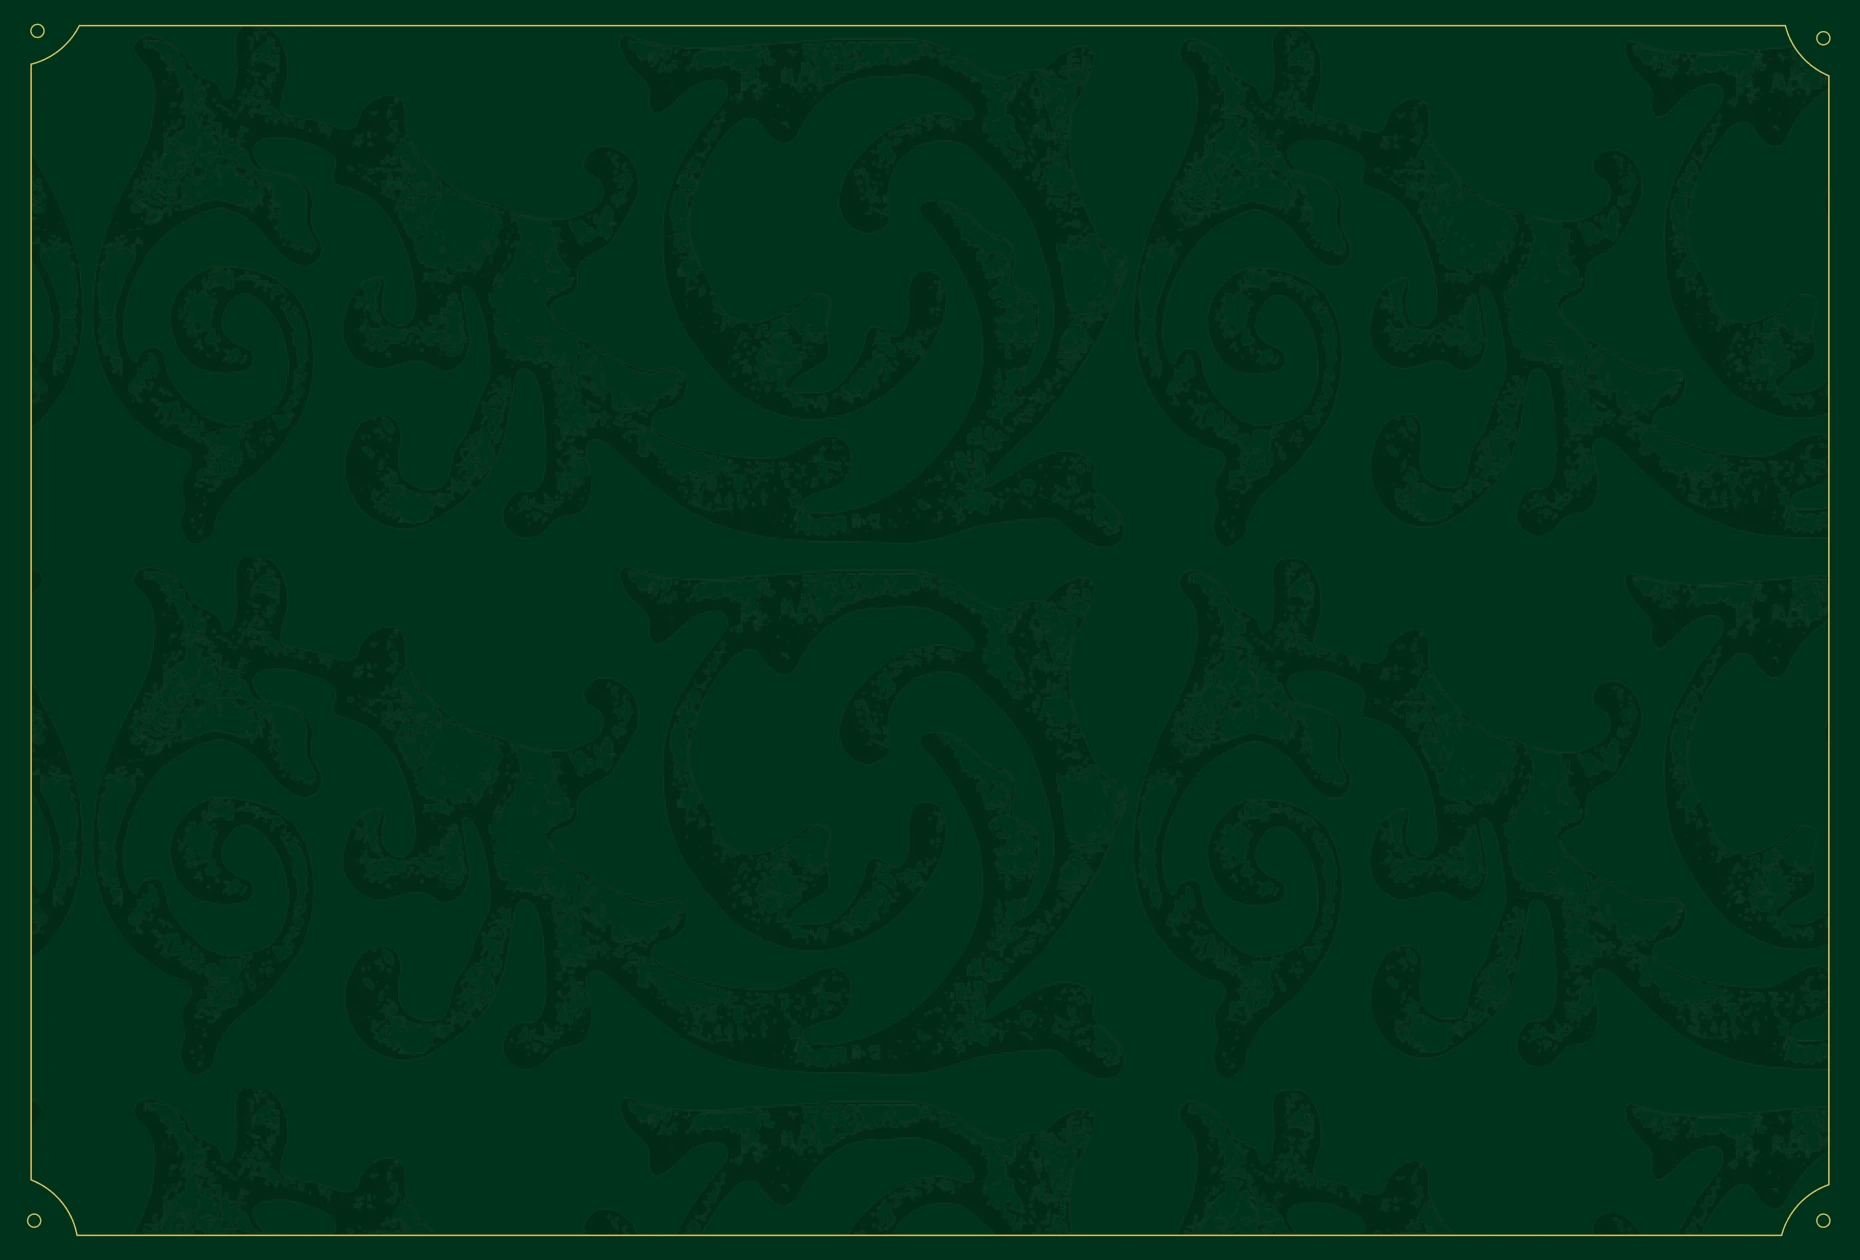
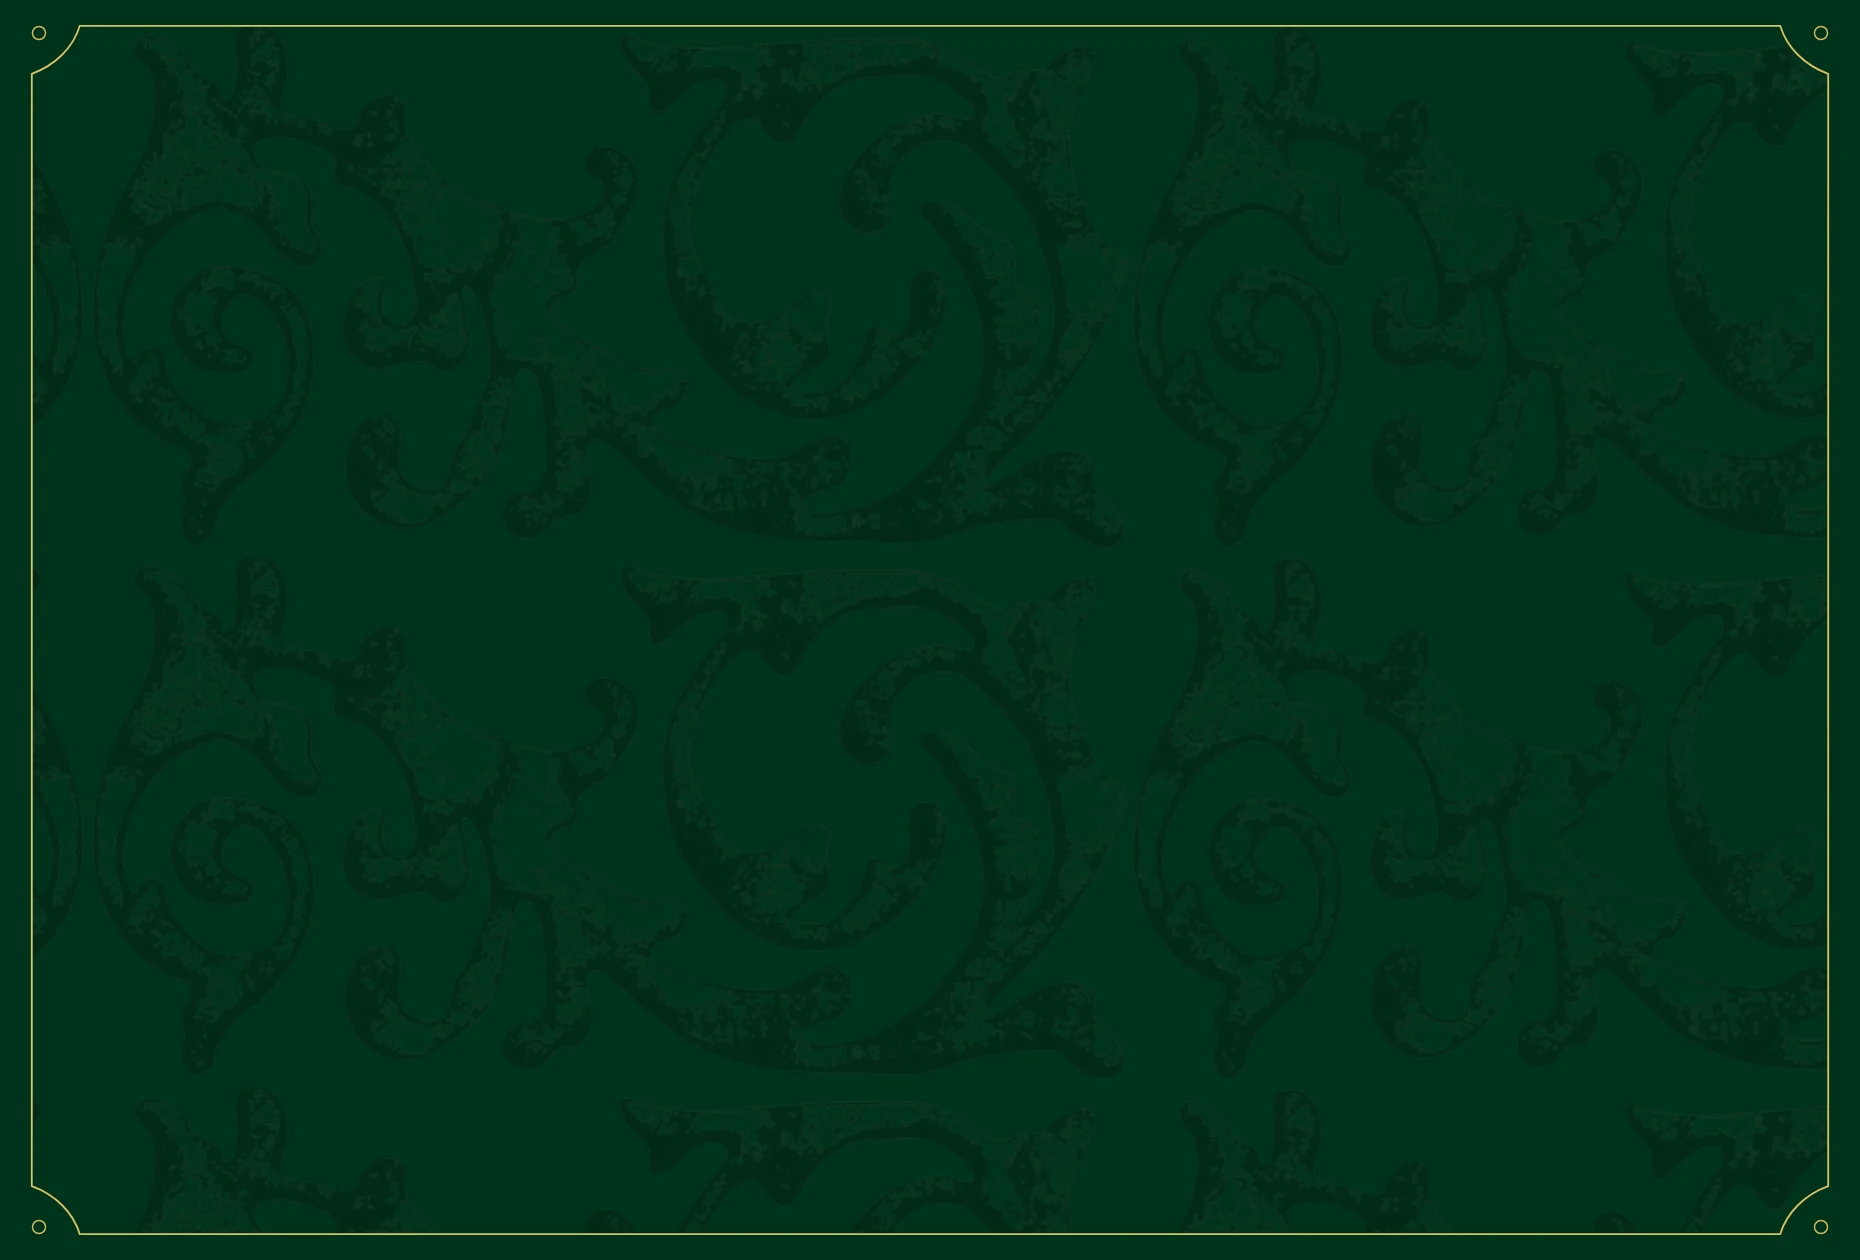
changes for spacing alignment in ai assistant page

Changed region(s): [[0.0312, 0.9595, 0.9667, 0.9905]]

diff --git a/modules/managed-launch/components/hero/launch-hero.tsx b/modules/managed-launch/components/hero/launch-hero.tsx
@@ -49,23 +49,25 @@ export function LaunchHero() {
       </div>
 
       {/*
-        As tall as the home hero: the screen below 760px, then the 1440 x 863 frame at full width, capped at the screen and at 1200px.
-        From 760px the copy's last line sits 10.25% of the frame above the frame's foot, or 88.5px (scaled) above the
-        screen's when the frame runs past it. Its sides keep the page's own padding, level with the header's logo and the
+        The screen below 760px, then Figma's 1440 x 788 hero (3262:54) at full width, capped at the screen and at 1200px.
+        From 760px the copy's last line sits 38px (scaled) above the frame's foot, as in Figma, or above the screen's when
+        the frame runs past it. Its sides keep the page's own padding, level with the header's logo and the
         sections below. The top padding keeps the copy clear of the fixed 72.5px header (48px, rounded up to a whole
         121px so the eyebrow's frame stays on whole pixels): where the stacked copy is taller than the frame leaves room
         for (760–1199px), the hero grows rather than running it under the header.
       */}
-      <div className="relative flex min-h-svh content-width flex-col justify-end pt-[121px] pb-16 min-[760px]:min-h-[min(calc(100vw*863/1440),100svh,1200px)] min-[760px]:pb-[max(min(88.5px,100vw*88.5/1440),calc(min(100vw*863/1440,100svh,1200px)_-_100vw*863*0.8975/1440))]">
+      <div className="relative flex min-h-svh content-width flex-col justify-end pt-[121px] pb-16 min-[760px]:min-h-[min(calc(100vw*788/1440),100svh,1200px)] min-[760px]:pb-[max(min(38px,100vw*38/1440),calc(min(100vw*788/1440,100svh,1200px)_-_100vw*750/1440))]">
         <div className="flex w-full flex-col items-start gap-8 min-[1200px]:flex-row min-[1200px]:items-end min-[1200px]:justify-between">
-          <div className="flex flex-col items-start gap-6">
+          {/* Figma 3262:157: the headline's box 12px under the eyebrow. */}
+          <div className="flex flex-col items-start gap-3">
             <Eyebrow surface="green" className="h-8">
               Managed launch
             </Eyebrow>
             <Headline />
           </div>
 
-          <div className="flex w-[453.402px] max-w-full flex-col items-start gap-4">
+          {/* Figma 3262:161: the column ends 8.35px short of the content edge (its row is 1271.65px wide). */}
+          <div className="flex w-[453.402px] max-w-full flex-col items-start gap-4 min-[1200px]:mr-[8.35px]">
             <StampButton href={ctaLinks.bookDemo} variant="wine">
               TALK TO SALES
             </StampButton>

diff --git a/modules/ai-assistants/components/hero/ai-assistants-hero.tsx b/modules/ai-assistants/components/hero/ai-assistants-hero.tsx
@@ -72,13 +72,13 @@ export function AiAssistantsHero({
       </div>
 
       {/*
-        Sized as the Managed launch hero: the screen below 760px, then the 1440 x 863 frame at full width, capped at the
-        screen. From 760px the copy's last line sits 10.25% of the frame above the frame's foot, or 88.5px (scaled) above
-        the screen's when the frame runs past it. The top padding keeps the copy clear of the fixed 72.5px header (48px,
+        The screen below 760px, then Figma's 1440 x 788 hero (3305:54) at full width, capped at the screen and at 1200px.
+        From 760px the copy's last line sits 115px (scaled) above the frame's foot, as in Figma, or above the screen's when
+        the frame runs past it. The top padding keeps the copy clear of the fixed 72.5px header (48px,
         rounded up to a whole 121px so the eyebrow's frame stays on whole pixels): where the stacked copy is taller than
         the frame leaves room for (760–1199px), the hero grows rather than running it under the header.
       */}
-      <div className="relative flex min-h-svh content-width flex-col justify-end pt-[121px] pb-16 min-[760px]:min-h-[min(calc(100vw*863/1440),100svh,1200px)] min-[760px]:pb-[max(min(88.5px,100vw*88.5/1440),calc(min(100vw*863/1440,100svh,1200px)_-_100vw*863*0.8975/1440))]">
+      <div className="relative flex min-h-svh content-width flex-col justify-end pt-[121px] pb-16 min-[760px]:min-h-[min(calc(100vw*788/1440),100svh,1200px)] min-[760px]:pb-[max(min(115px,100vw*115/1440),calc(min(100vw*788/1440,100svh,1200px)_-_100vw*673/1440))]">
         <div className="flex w-full flex-col items-start gap-8 min-[1200px]:flex-row min-[1200px]:items-end min-[1200px]:justify-between">
           {/* Figma sets the eyebrow 12px above the headline here (24px on the other heroes). */}
           <div className="flex flex-col items-start gap-3">
@@ -88,7 +88,8 @@ export function AiAssistantsHero({
             <Headline id={id} initial={initial} firstLine={firstLine} secondLine={secondLine} />
           </div>
 
-          <div className="flex max-w-full min-w-0 flex-col items-start gap-4" style={{ width: asideWidth }}>
+          {/* Figma 3305:161: the column runs 19.8px past the content edge (its row is 1299.8px wide). */}
+          <div className="flex max-w-full min-w-0 flex-col items-start gap-4 min-[1200px]:-mr-[19.8px]" style={{ width: asideWidth }}>
             <StampButton href={ctaLinks.bookDemo} variant="wine">
               BOOK A DEMO
             </StampButton>

diff --git a/modules/ai-assistants/components/possibilities/shopper-asks-tabs.tsx b/modules/ai-assistants/components/possibilities/shopper-asks-tabs.tsx
@@ -38,8 +38,8 @@ export function ShopperAsksTabs({ questions }: { questions: ShopperQuestion[] })
                   aria-current={on ? "true" : undefined}
                   onClick={() => open(i)}
                   className={cn(
-                    // Figma 3305:383: 12px tall padding, 24px in and 20px after; inactive labels at ink/40, as Figma sets them.
-                    "relative flex w-full cursor-pointer items-center py-3 pr-5 pl-6 text-left font-sans text-base leading-[1.1] tracking-[-0.32px] transition-colors lg:whitespace-nowrap duration-500 ease-[cubic-bezier(0.22,1,0.36,1)] focus-visible:outline-2 focus-visible:-outline-offset-2 focus-visible:outline-maroon",
+                    // Figma 3305:383: 48px rows, a 24px line in 12px tall padding, 24px in and 20px after; inactive labels at ink/40, as Figma sets them.
+                    "relative flex w-full cursor-pointer items-center py-3 pr-5 pl-6 text-left font-sans text-base leading-6 tracking-[-0.32px] transition-colors lg:whitespace-nowrap duration-500 ease-[cubic-bezier(0.22,1,0.36,1)] focus-visible:outline-2 focus-visible:-outline-offset-2 focus-visible:outline-maroon",
                     on ? "bg-cream text-ink" : "text-ink/40 hover:text-ink",
                   )}
                 >
@@ -73,7 +73,7 @@ export function ShopperAsksTabs({ questions }: { questions: ShopperQuestion[] })
             className="tab-panel grid w-full grid-rows-subgrid items-start"
             style={{ gridArea: "1 / 1 / 3 / 2" }}
           >
-            <div className="flex w-full flex-col items-start gap-5 bg-cream px-4 pb-6 md:flex-row md:items-end md:justify-between md:gap-8">
+            <div className="flex w-full flex-col items-start gap-5 bg-cream pr-4 pb-6 pl-4 md:flex-row md:pr-[21px] md:items-end md:justify-between md:gap-8">
               <div className="flex flex-col items-start gap-3">
                 <h3 className="font-serif text-[22px] leading-[1.1] tracking-[-0.88px] text-[#040404]">{question.label}</h3>
                 {question.description && (

diff --git a/modules/landing/components/shared/accordion-media.tsx b/modules/landing/components/shared/accordion-media.tsx
@@ -23,6 +23,8 @@ type AccordionMediaProps = {
    * item's rule 32px under its copy (not 24px), and a rule under the last item too.
    */
   spacedRules?: boolean;
+  /** A rule under the last item too (with `spacedRules`, unless set false: AI Assistants' quotes have none). */
+  lastRule?: boolean;
 };
 
 /**
@@ -35,7 +37,7 @@ type AccordionMediaProps = {
  * The items take turns on their own (see `useAutoplayTabs`): each stays open for its turn, then the next opens.
  * Choosing one opens it and starts its turn afresh. Side by side from 1024px; narrower, the list sits over the panel.
  */
-export function AccordionMedia({ items, turns, label, renderPanel, panelClassName, panelBackground, spacedRules = false }: AccordionMediaProps) {
+export function AccordionMedia({ items, turns, label, renderPanel, panelClassName, panelBackground, spacedRules = false, lastRule = spacedRules }: AccordionMediaProps) {
   const { active, plays, root, open } = useAutoplayTabs(turns);
   const tabs = useRef<(HTMLButtonElement | null)[]>([]);
   const id = useId();
@@ -111,7 +113,7 @@ export function AccordionMedia({ items, turns, label, renderPanel, panelClassNam
                 )}
               </button>
               {/* The open item's rule is 1px black/30; the others' a 0.5px black/20 line. None under the last, unless `spacedRules`. */}
-              {(i !== last || spacedRules) && (
+              {(i !== last || lastRule) && (
                 <span
                   aria-hidden
                   className={cn(

diff --git a/modules/ai-assistants/components/wide-panel/wide-panel-section.tsx b/modules/ai-assistants/components/wide-panel/wide-panel-section.tsx
@@ -23,6 +23,12 @@ const layouts = {
     heading: "",
     copy: "",
   },
+  /** As inline, bottom-aligned with the headline instead of centred on it (AI Assistants: Insights, Figma 3392:200). */
+  inlineBottom: {
+    row: "min-[1200px]:flex-row min-[1200px]:items-end min-[1200px]:gap-12 min-[1440px]:gap-[120px]",
+    heading: "",
+    copy: "",
+  },
 } as const;
 
 type WidePanelSectionProps = {
@@ -32,7 +38,7 @@ type WidePanelSectionProps = {
   initial: string;
   firstLine: ReactNode;
   secondLine?: ReactNode;
-  /** Two lines (default) or one (oneLine), Crimson Light 60 at 1.1. */
+  /** Two lines (default: 60px lines at 0.9, as Figma) or one (oneLine). */
   variant: "default" | "oneLine";
   /** Geist copy beside the headline, at most `copyWidth` wide. */
   copy: ReactNode;
@@ -69,7 +75,7 @@ export function WidePanelSection({
         <div className={cn("flex w-full flex-col items-start gap-8", l.row)}>
           <div className={cn("flex shrink-0 flex-col items-start gap-6", l.heading)}>
             <Eyebrow>{eyebrow}</Eyebrow>
-            <SectionTitle id={id} initial={initial} firstLine={firstLine} secondLine={secondLine} width={614.744} variant={variant} weight="light" />
+            <SectionTitle id={id} initial={initial} firstLine={firstLine} secondLine={secondLine} width={614.744} variant={variant === "default" ? "dynamic" : variant} weight="light" />
           </div>
 
           <div

diff --git a/modules/managed-launch/components/your-part/your-part.tsx b/modules/managed-launch/components/your-part/your-part.tsx
@@ -1,5 +1,4 @@
 import { Eyebrow } from "@/components/ui/eyebrow";
-import { DividerBand } from "@/modules/landing/components/shared/divider-band";
 import { SectionTitle } from "@/modules/landing/components/shared/section-title";
 
 /** The meeting rhythm, as Figma's partnership timeline: each step's tag and rhythm. */
@@ -17,8 +16,7 @@ const rhythm = [
  */
 export function YourPart() {
   return (
-    <section aria-labelledby="your-part-title" className="relative section-pad-band">
-      <DividerBand glyph="gear" />
+    <section aria-labelledby="your-part-title" className="relative section-pad">
       <div className="flex content-width flex-col items-center gap-16">
         <div className="flex flex-col items-center gap-6 text-center">
           <SectionTitle
@@ -27,7 +25,7 @@ export function YourPart() {
             firstLine="our part is"
             secondLine="surprisingly small"
             width={373}
-            variant="credits"
+            variant="dynamicCentered"
             weight="light"
           />
           <p className="max-w-[560px] font-sans text-base leading-[1.5] tracking-[-0.32px] text-ink-muted">

diff --git a/modules/managed-launch/components/library/journey-library.tsx b/modules/managed-launch/components/library/journey-library.tsx
@@ -101,7 +101,8 @@ export function JourneyLibrary() {
 
   return (
     <section aria-labelledby="journey-library-title" className="relative px-(--frame-inset)">
-      <div className="bg-sand py-16 shadow-[inset_0_0_0_0.5px_rgba(0,0,0,0.25)] md:py-20">
+      {/* Figma 3295:55: 80.5px top and bottom inside the panel. */}
+      <div className="bg-sand py-16 shadow-[inset_0_0_0_0.5px_rgba(0,0,0,0.25)] md:py-[80.5px]">
         {/* Full content width, no cap, so the heading lines up with the other sections' at every viewport. */}
         <div className="mx-auto flex w-[calc(100%-2*(var(--page-pad)-var(--frame-inset)))] flex-col gap-16 lg:gap-20">
           <div className="flex w-full flex-col items-start gap-8 lg:flex-row lg:items-end lg:justify-between">
@@ -122,6 +123,7 @@ export function JourneyLibrary() {
                   }
                   width={1000}
                   mobileWidth={700}
+                  variant="dynamic"
                   weight="light"
                 />
                 <p className="max-w-[820px] font-sans text-base leading-6 tracking-[-0.32px] text-black/60">

diff --git a/modules/ai-assistants/components/insights/insights.tsx b/modules/ai-assistants/components/insights/insights.tsx
@@ -20,6 +20,7 @@ export function Insights({
     </>
   ),
   scene,
+  layout = "inlineBottom",
 }: {
   id?: string;
   initial?: string;
@@ -27,6 +28,8 @@ export function Insights({
   copy?: ReactNode;
   /** The motion visual the panel plays (1280 × 599); the bare panel without one. */
   scene?: MotionSlug;
+  /** How the copy sits beside the headline: bottom-aligned with it, as Figma (3392:200), or centred on it. */
+  layout?: "inline" | "inlineBottom";
 }) {
   return (
     <WidePanelSection
@@ -35,7 +38,7 @@ export function Insights({
       initial={initial}
       firstLine={firstLine}
       variant="oneLine"
-      layout="inline"
+      layout={layout}
       copyWidth={477.244}
       copy={<p>{copy}</p>}
     >

diff --git a/modules/ai-assistants/components/motion/motion.css b/modules/ai-assistants/components/motion/motion.css
@@ -3667,6 +3667,8 @@
 /* visuals/AiAssistantsV3/ReachesThemFirst.css */
 /* "Reaches them first" (05, 06): desktop ChatGPT at 1280x599. Layered on
    06's .aia shell and AiAssistantsV3.css; ChatGPT tokens only. */
+/* campaigns_bg.webp is Figma's frame (3562:57) re-rendered with its four notched corners made equal (16px notches,
+   the studs 2.4px in): Figma's own were uneven (12.8–18.4px). */
 .aia-motion .aiv3-section--stack { flex-direction: column; }
 .aia-motion .aiv3w-canvas { position: relative; width: 620px; height: 420px; flex: none; overflow: hidden; display: grid; place-items: center;
     background: var(--ill-color-background-page) url("../../assets/motion/ill-frame/campaigns_bg.webp") center / cover no-repeat; }

diff --git a/modules/ai-assistants/components/logged-in/quote-accordion.tsx b/modules/ai-assistants/components/logged-in/quote-accordion.tsx
@@ -20,7 +20,10 @@ export function QuoteAccordion({ quotes }: { quotes: LoggedInQuote[] }) {
       items={quotes.map((quote) => ({ title: quote.quote, description: quote.description }))}
       turns={turns}
       label="What signed-in customers ask"
-      panelClassName="bg-[#462160]"
+      // Figma 3305:957: the panel ends 7px short of the content edge; the open quote's rule 32px under it (3305:920), none under the last.
+      panelClassName="bg-[#462160] lg:mr-[7px]"
+      spacedRules
+      lastRule={false}
       panelBackground={<Image src={panelArt} alt="" fill sizes="(min-width: 1024px) 687px, 100vw" className="object-cover" />}
       renderPanel={(active) => {
         const slug = quotes[active].scene;

diff --git a/modules/ai-assistants/components/logged-in/logged-in-experience.tsx b/modules/ai-assistants/components/logged-in/logged-in-experience.tsx
@@ -47,7 +47,7 @@ export function LoggedInExperience({
   const heading = (
     <div className="flex flex-col items-start gap-[18px]">
       <Eyebrow>{eyebrow}</Eyebrow>
-      <SectionTitle id={id} initial={initial} firstLine={firstLine} secondLine={secondLine} width={553.133} weight="light" />
+      <SectionTitle id={id} initial={initial} firstLine={firstLine} secondLine={secondLine} width={553.133} variant="dynamic" weight="light" />
       {/* Figma 3305:909: the accordion layout's copy runs the heading's full 725px column. */}
       <p
         className={cn("font-sans text-base leading-6 tracking-[-0.32px] text-black/60", layout === "accordion" ? "max-w-[725px]" : "max-w-[520px]")}

diff --git a/modules/ai-assistants/components/possibilities/shopper-asks.tsx b/modules/ai-assistants/components/possibilities/shopper-asks.tsx
@@ -42,7 +42,7 @@ export function ShopperAsks({
       <div className="flex content-width flex-col items-start gap-section">
         <div className="flex flex-col items-start gap-6">
           <Eyebrow>Possibilities</Eyebrow>
-          <SectionTitle id={id} initial={initial} firstLine={firstLine} secondLine={secondLine} width={width} weight="light" />
+          <SectionTitle id={id} initial={initial} firstLine={firstLine} secondLine={secondLine} width={width} variant="dynamic" weight="light" />
           {copy && (
             <p className="font-sans text-base leading-6 tracking-[-0.32px] text-black/59" style={{ maxWidth: width }}>
               {copy}
